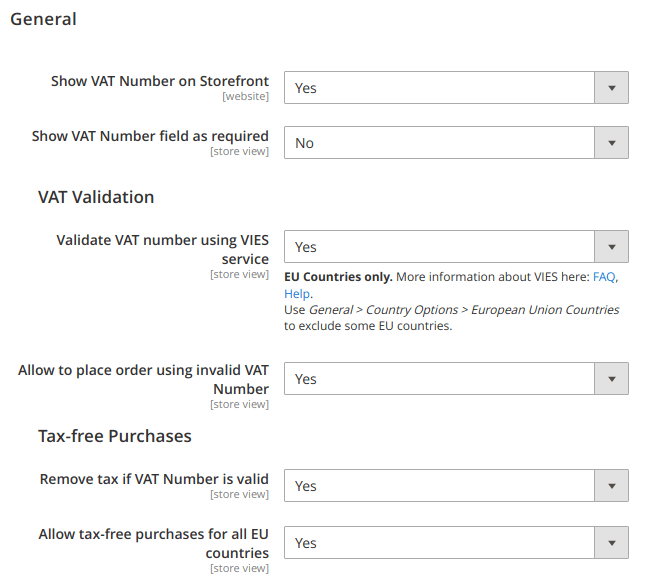
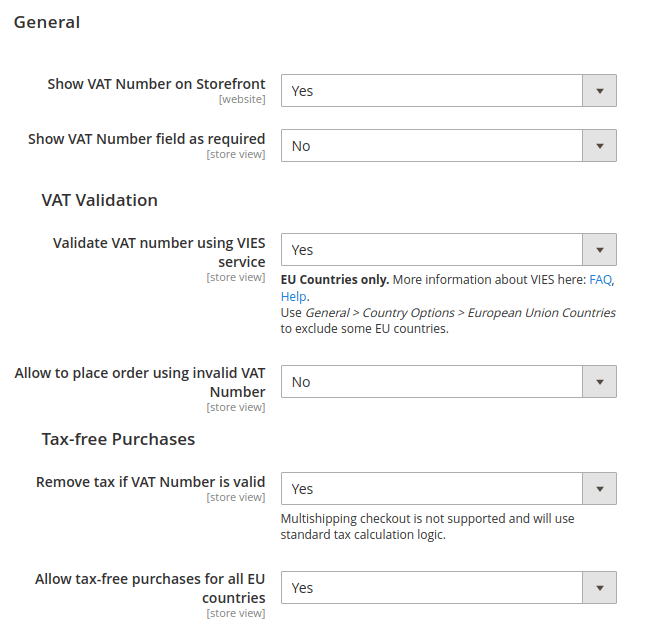
Taxvat: 1.3.2 updates

diff --git a/m2/extensions/taxvat/index.md b/m2/extensions/taxvat/index.md
@@ -14,6 +14,8 @@ placement if VAT is not valid, set tax to zero when VAT number is valid.
 
 The module works well with both Firecheckout and Standard onepage checkout modules.
 
+**Tax-free purchases are not supported for multishipping checkout**.
+
 > Please note that VIES service can be offline sometimes and customer
 > will be able to place order with invalid VAT number. Tax-free order **will not**
 > work in this case.
